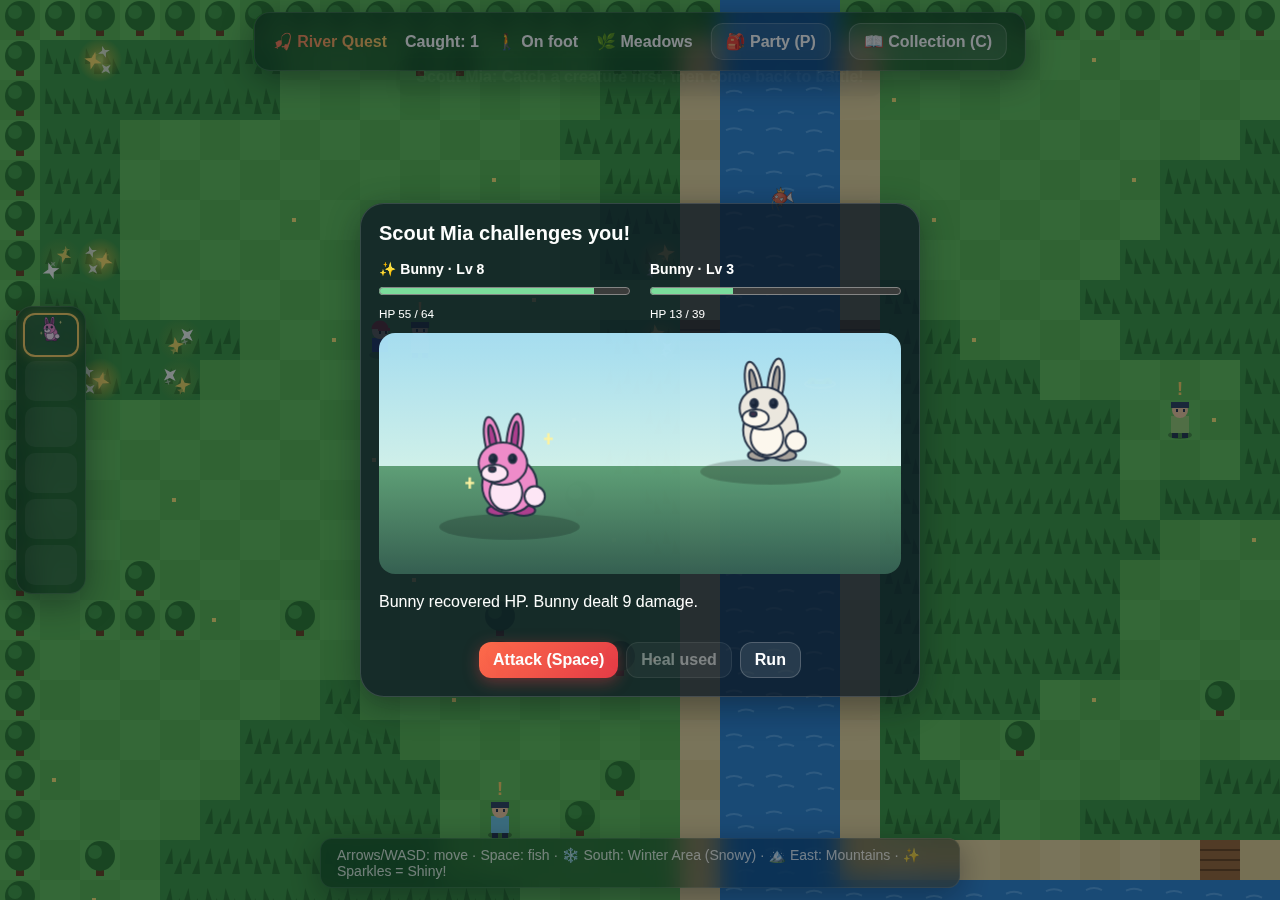
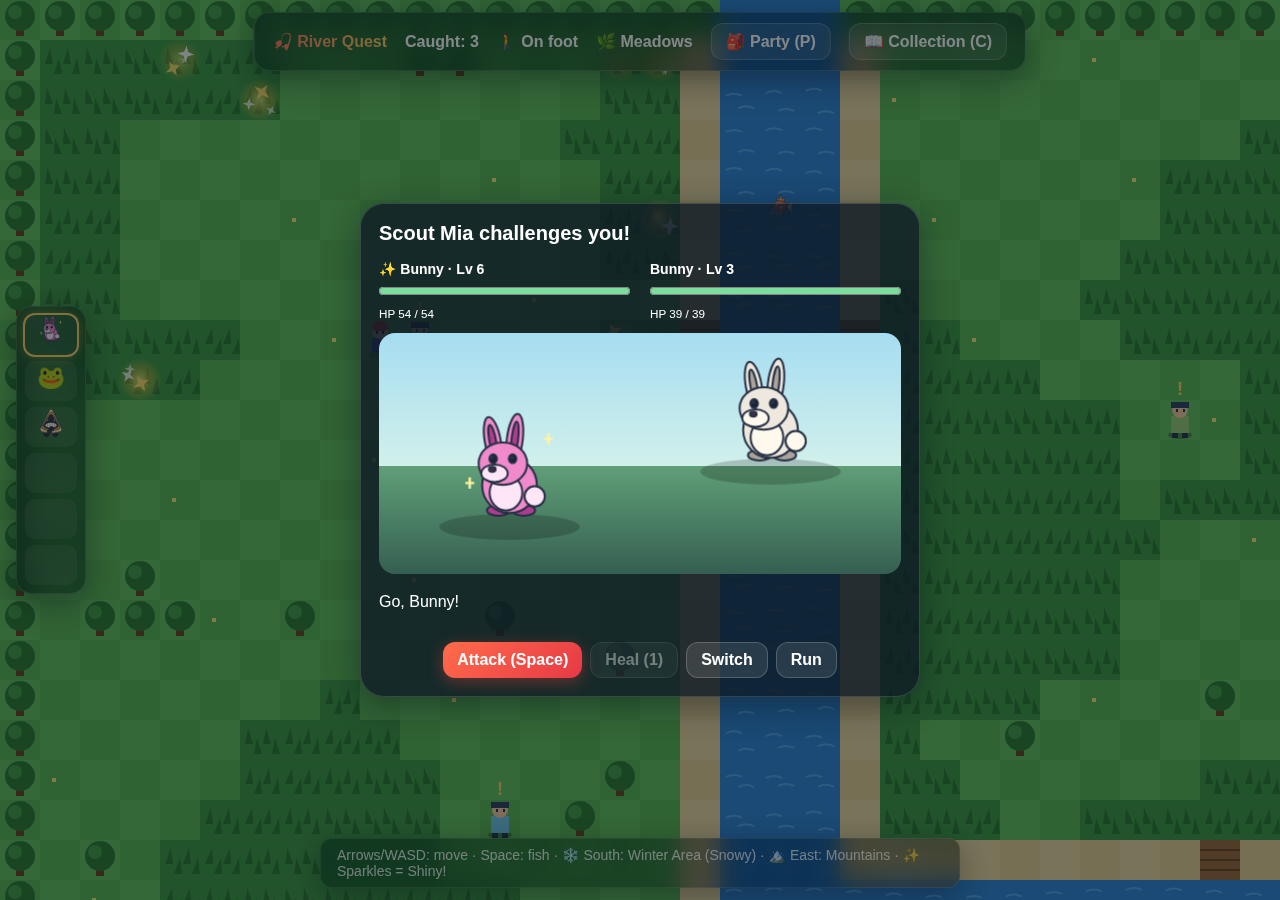
Allow manual party switching during trainer battles

diff --git a/game.js b/game.js
@@ -378,7 +378,7 @@ function challengeTrainer() {
   battle = {
     trainer, allies: party.map(mon => ({ ...mon, hp: maxHP(mon) })),
     foes: trainer.team.map(mon => ({ ...mon, hp: maxHP(mon) })),
-    ally: 0, foe: 0, healed: false, over: false,
+    ally: 0, foe: 0, healed: false, over: false, switching: false,
   };
   modal = 'battle';
   clearTimeout(toastT); $('toast').classList.remove('show');
@@ -400,7 +400,43 @@ function updateBattle(message) {
   $('battle-attack').disabled = battle.over;
   $('battle-heal').disabled = battle.over || battle.healed || ally.hp === maxHP(ally);
   $('battle-heal').textContent = battle.healed ? 'Heal used' : 'Heal (1)';
+  $('battle-switch').disabled = battle.over || !battle.allies.some((mon, i) => i !== battle.ally && mon.hp > 0);
+  renderBattleSwitch();
   drawBattle();
+}
+function renderBattleSwitch() {
+  const open = battle.switching && !battle.over;
+  $('battle-attack').disabled = battle.over || open;
+  const ally = battle.allies[battle.ally];
+  $('battle-heal').disabled = battle.over || open || battle.healed || ally.hp === maxHP(ally);
+  $('battle-switch-panel').classList.toggle('hidden', !open);
+  $('battle-switch').setAttribute('aria-expanded', String(open));
+  const list = $('battle-switch-list'); list.replaceChildren();
+  if (!open) return;
+  battle.allies.forEach((mon, i) => {
+    const button = document.createElement('button');
+    button.className = 'btn battle-choice';
+    button.disabled = i === battle.ally || mon.hp <= 0;
+    button.appendChild(monIcon(mon));
+    const label = document.createElement('span');
+    label.textContent = `${mon.shiny ? '✨ ' : ''}${byId(mon.id).name} · Lv ${mon.lv} · HP ${mon.hp}/${maxHP(mon)}${i === battle.ally ? ' · Active' : mon.hp <= 0 ? ' · Fainted' : ''}`;
+    button.appendChild(label);
+    button.onclick = () => switchBattleAlly(i);
+    list.appendChild(button);
+  });
+}
+function toggleBattleSwitch() {
+  if (!battle || battle.over || $('battle-switch').disabled) return;
+  battle.switching = !battle.switching;
+  renderBattleSwitch();
+  if (battle.switching) $('battle-switch-list').querySelector('button:not(:disabled)').focus();
+  else $('battle-switch').focus();
+}
+function switchBattleAlly(index) {
+  if (!battle || battle.over || !battle.switching || !Number.isInteger(index) || index === battle.ally || !battle.allies[index] || battle.allies[index].hp <= 0) return;
+  battle.switching = false; battle.ally = index;
+  enemyBattleTurn(`Go, ${byId(battle.allies[index].id).name}! `);
+  $('battle-attack').focus();
 }
 function drawBattle() {
   const c = $('battle-canvas').getContext('2d');
@@ -416,7 +452,7 @@ function drawBattle() {
   draw(battle.foes[battle.foe], 390, 90);
 }
 function battleTurn(heal = false) {
-  if (!battle || battle.over) return;
+  if (!battle || battle.over || battle.switching) return;
   const ally = battle.allies[battle.ally], foe = battle.foes[battle.foe];
   let message;
   if (heal) {
@@ -441,17 +477,22 @@ function battleTurn(heal = false) {
       return;
     }
   }
+  enemyBattleTurn(message);
+}
+function enemyBattleTurn(message) {
+  const ally = battle.allies[battle.ally], foe = battle.foes[battle.foe];
   const damage = 4 + foe.lv + Math.floor(Math.random() * 3);
   ally.hp = Math.max(0, ally.hp - damage);
   message += `${byId(foe.id).name} dealt ${damage} damage.`;
   if (!ally.hp) {
     message += ` ${byId(ally.id).name} fainted.`;
-    if (battle.ally + 1 === battle.allies.length) {
+    const next = battle.allies.findIndex(mon => mon.hp > 0);
+    if (next === -1) {
       battle.over = true; $('battle-run').textContent = 'Back to exploring';
       updateBattle('Your party is out of HP. Everyone has been healed—catch more creatures or try again!');
       return;
     }
-    battle.ally++;
+    battle.ally = next;
     message += ` Go, ${byId(battle.allies[battle.ally].id).name}!`;
   }
   updateBattle(message);
@@ -464,6 +505,8 @@ function closeBattle() {
 }
 $('battle-attack').onclick = () => battleTurn();
 $('battle-heal').onclick = () => battleTurn(true);
+$('battle-switch').onclick = toggleBattleSwitch;
+$('battle-switch-cancel').onclick = toggleBattleSwitch;
 $('battle-run').onclick = closeBattle;
 
 // ---------- Fishing ----------
@@ -672,8 +715,8 @@ $('btn-party').onclick = openParty; $('btn-party-close').onclick = closeParty; $
 const DIRS = { ArrowUp: [0, -1], KeyW: [0, -1], ArrowDown: [0, 1], KeyS: [0, 1], ArrowLeft: [-1, 0], KeyA: [-1, 0], ArrowRight: [1, 0], KeyD: [1, 0] };
 addEventListener('keydown', e => {
   if (modal === 'battle') {
-    if (e.code === 'Space') { e.preventDefault(); if (!e.repeat) battleTurn(); }
-    if (e.code === 'Escape') closeBattle();
+    if (e.code === 'Space' && !e.target.closest('button')) { e.preventDefault(); if (!e.repeat) battleTurn(); }
+    if (e.code === 'Escape') battle.switching ? toggleBattleSwitch() : closeBattle();
     return;
   }
   if (DIRS[e.code]) { keys.add(e.code); e.preventDefault(); }

diff --git a/index.html b/index.html
@@ -7,7 +7,7 @@
   <meta name="description" content="Explore rivers by boat, fish for Magikarp and catch wild animals in the tall grass." />
   <link rel="preconnect" href="https://fonts.googleapis.com" />
   <link href="https://fonts.googleapis.com/css2?family=Outfit:wght@400;600;800&display=swap" rel="stylesheet" />
-  <link rel="stylesheet" href="style.css?v=trainers-1" />
+  <link rel="stylesheet" href="style.css?v=trainers-switch-1" />
 </head>
 <body>
   <main>
@@ -53,8 +53,15 @@
         <div class="battle-actions">
           <button id="battle-attack" class="btn primary">Attack (Space)</button>
           <button id="battle-heal" class="btn">Heal (1)</button>
+          <button id="battle-switch" class="btn" aria-expanded="false" aria-controls="battle-switch-panel">Switch</button>
           <button id="battle-run" class="btn">Run</button>
         </div>
+        <section id="battle-switch-panel" class="hidden" aria-labelledby="battle-switch-title">
+          <h3 id="battle-switch-title">Choose your next creature</h3>
+          <p>Switching uses your turn. Your opponent will attack next.</p>
+          <div id="battle-switch-list"></div>
+          <button id="battle-switch-cancel" class="btn">Cancel</button>
+        </section>
       </div>
     </section>
 
@@ -85,6 +92,6 @@
       <button id="btn-a" class="abtn">🎣</button>
     </div>
   </main>
-  <script src="game.js?v=trainers-1"></script>
+  <script src="game.js?v=trainers-switch-1"></script>
 </body>
 </html>

diff --git a/style.css b/style.css
@@ -75,6 +75,13 @@ canvas#world { display: block; width: 100vw; height: 100vh; image-rendering: pix
 #battle-canvas { width: 100%; height: auto; border-radius: 16px; background: linear-gradient(#a6ddf1, #d1f0eb 55%, #609f78 55%, #355f51); margin-top: 12px; }
 #battle-text { min-height: 4em; padding: 12px 0; line-height: 1.5; }
 .battle-actions { display: flex; justify-content: center; flex-wrap: wrap; gap: 8px; }
+#battle-switch-panel { margin-top: 16px; border-top: 1px solid #ffffff30; padding-top: 12px; }
+#battle-switch-panel h3 { font-size: 17px; }
+#battle-switch-panel p { font-size: 13px; margin: 8px 0; opacity: .85; }
+#battle-switch-list { display: grid; gap: 8px; margin-bottom: 12px; }
+.battle-choice { width: 100%; display: flex; align-items: center; gap: 12px; text-align: left; }
+.battle-choice .icon { flex-shrink: 0; }
+.battle-choice:disabled { opacity: .5; }
 .party-bar { position: fixed; left: 16px; top: 50%; transform: translateY(-50%); display: flex; flex-direction: column; gap: 6px; padding: 8px; border-radius: 16px; cursor: pointer; }
 .pslot { width: 52px; height: 40px; border-radius: 10px; background: hsla(0,0%,100%,.08); display: grid; place-items: center; font-size: 26px; transition: transform .15s; }
 .pslot:hover { transform: scale(1.1); }

diff --git a/DEVELOPMENT.md b/DEVELOPMENT.md
@@ -53,6 +53,10 @@ With at least one caught creature, walk next to a trainer marked ! to test battl
 startup, Attack/Space, the one-use Heal, retreat, and party switching. A win gives
 every party member a level and saves a check mark on that trainer. Verify it stays
 after refreshing. Losing or retreating must leave caught creatures and saves intact.
+Test manual Switch with multiple party members: switching costs one turn and
+preserves each creature's HP; canceling costs none. Active/fainted choices are
+disabled. After a faint, any surviving party member can take over regardless of
+party order. Check mouse, keyboard, and touch selection.
 
 Cloud tasks already have isolated checkouts. Use this checkout directly;
 do not create a Git worktree unless explicitly requested.

diff --git a/README.md b/README.md
@@ -32,6 +32,11 @@ Choose **Attack** (or press Space), use **Heal** once per battle, or **Run**
 creature on the trainer's team to win and give each of your party creatures a level.
 Your party recovers after every battle, including a loss or retreat.
 
+Choose **Switch** to send in another party creature. The menu shows each creature's
+remaining HP; active and fainted creatures cannot be selected. Switching uses your
+turn, so the opponent attacks your new creature. Opening the menu or choosing
+**Cancel** (Escape) costs no turn. Each creature keeps its HP when switched out.
+
 Defeated trainers show a **✓** and will not challenge you again; wins save with
 your progress. After running or losing, walk away and approach again to retry.
 
